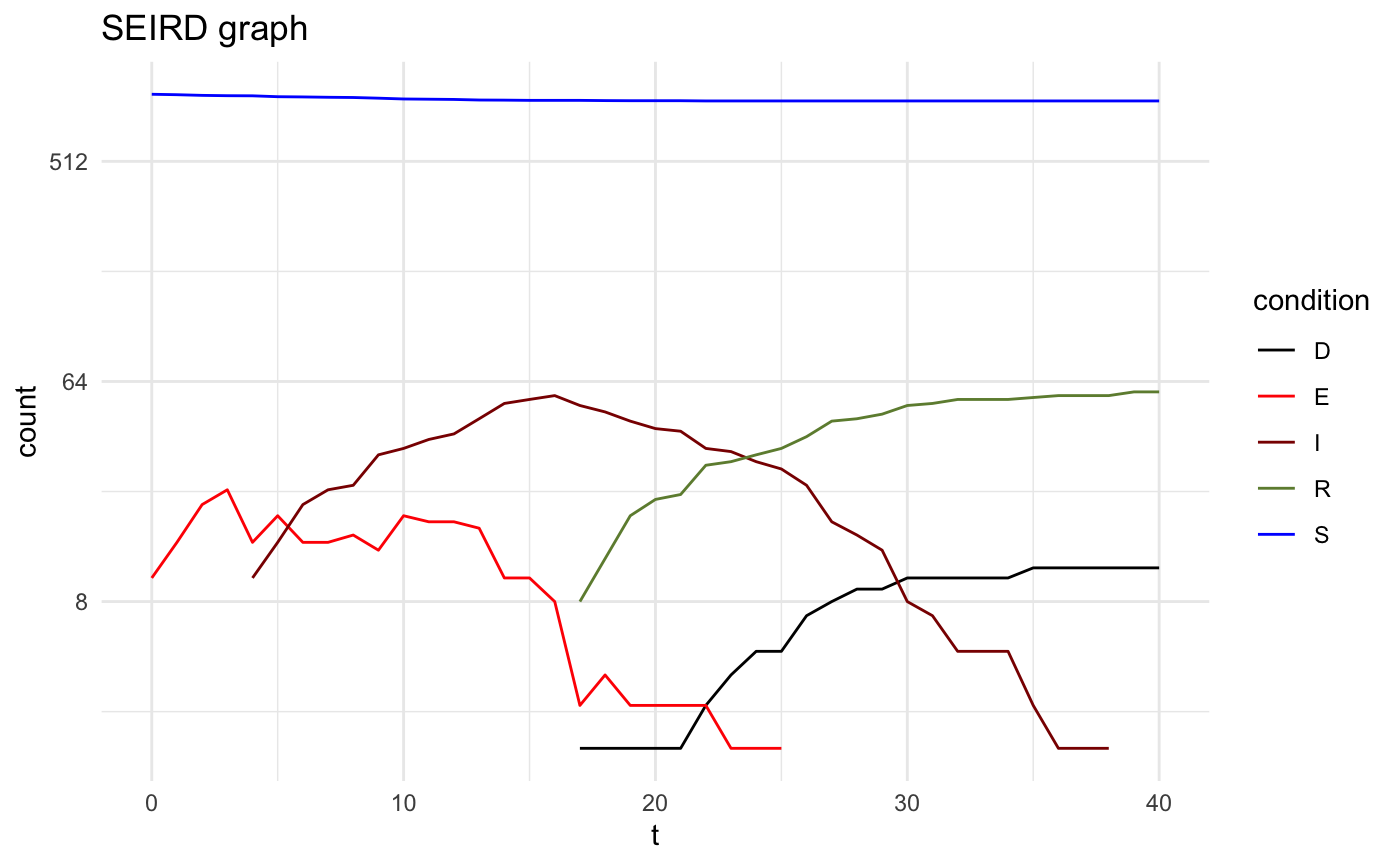
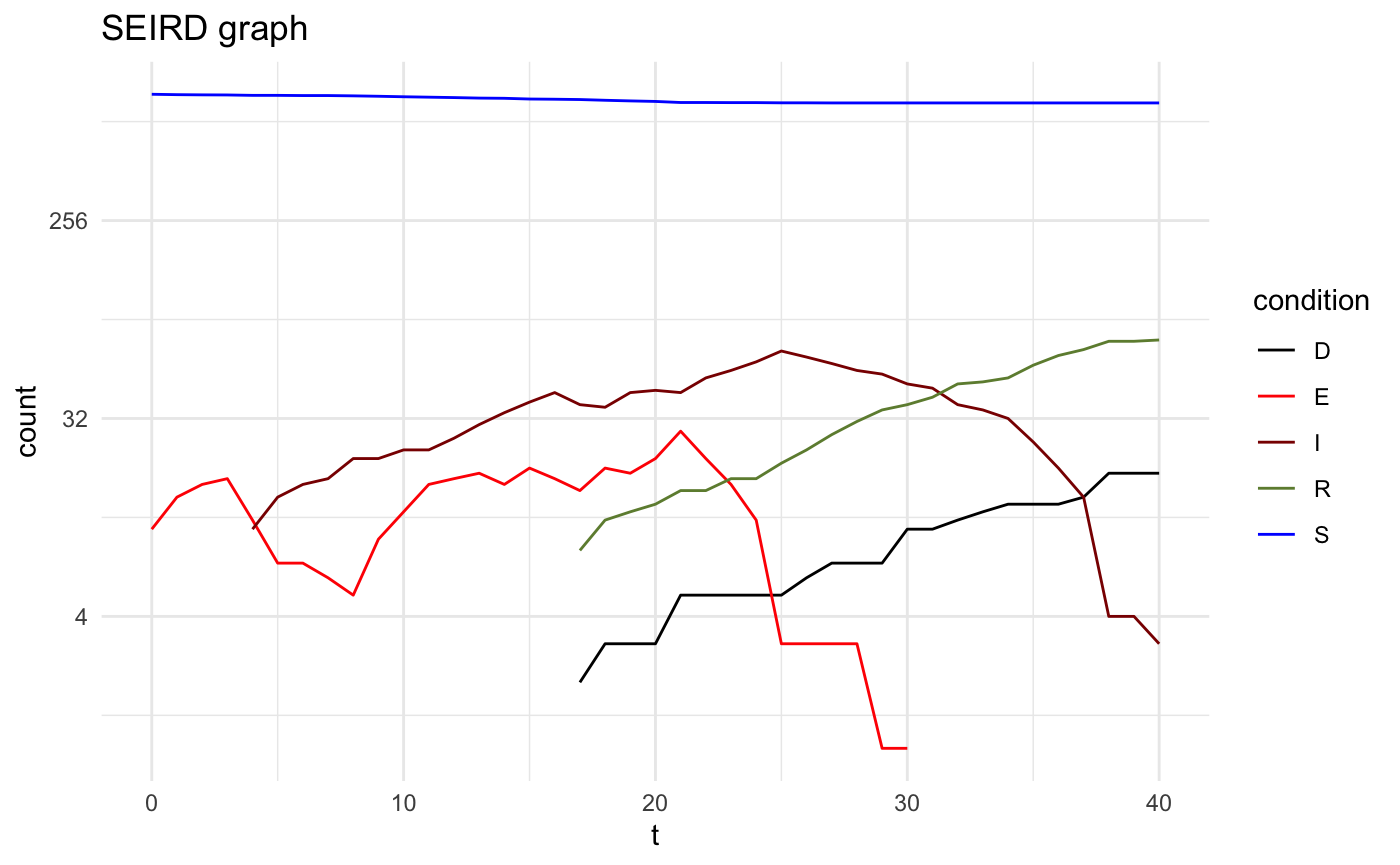
Built site for epidsampler: 0.0.0.9000@077be3d

diff --git a/articles/epidsampler.html b/articles/epidsampler.html
@@ -183,7 +183,8 @@
 <p>First of all, in order to simulate an artificial population describing the time evolution of an epidemics, we considered a popular model constituted by a system of six differential equations which, in each moment of time, describe six categories of individuals, namely: the susceptibles (S), those exposed to the virus (E), the infected with symptoms (I), those without symptoms (A) and those that are removed from population either because healed (R) or dead (D). This modelling framework is due to the seminal contribution of Hamer (1906), Kermack and McKendrick (1927) and Soper (1929) and it is often referred to as the “SIR model” from the initials of the categories considered in the first simplified formulation: Susceptibles, Infected and Removed. A comprehensive overview of this model is contained in Cliff et al. (1981). See also Vynnycky and White (2010).</p>
 <p>For the data random generation, we assumed that, if infected, a susceptible element of the population (S) will remain in the exposed state (E) for the time <strong>tE</strong>. After that period the subject can become either infected with symptoms (I) with probability <strong>ir</strong> or without (asymptomatic; symbol A) with probability <strong>1-ir</strong>. The asymptomatic will remain infected (and so still able to transmit the virus) for <strong>tA</strong> days. After this period all the asymptomatic will be considered healed and will pass to the category removed (R). In contrast, the infected people showing symptoms will be healed with probability <strong>1-cfr</strong> or die (D) with probability <strong>cfr</strong> (case death rate).</p>
 <p>The first simulation does not consider asyntomatic in the evolution of the epidemics.</p>
-<div class="sourceCode" id="cb3"><html><body><pre class="r"><span class="no">map</span> <span class="kw">&lt;-</span> <span class="no">map</span> <span class="kw">%&gt;%</span>
+<div class="sourceCode" id="cb3"><html><body><pre class="r"><span class="fu"><a href="https://rdrr.io/r/base/Random.html">set.seed</a></span>(<span class="fl">12345</span>)
+<span class="no">map</span> <span class="kw">&lt;-</span> <span class="no">map</span> <span class="kw">%&gt;%</span>
     <span class="fu"><a href="../reference/addsteps.html">addsteps</a></span>(<span class="kw">n</span><span class="kw">=</span><span class="fl">21</span>, <span class="kw">m</span><span class="kw">=</span><span class="fl">0.03</span>, <span class="kw">s</span><span class="kw">=</span><span class="fl">2</span>,
              <span class="kw">cn</span><span class="kw">=</span><span class="fl">4</span>, <span class="kw">cp</span><span class="kw">=</span><span class="fl">2</span>,
              <span class="kw">im</span><span class="kw">=</span><span class="fl">3</span>, <span class="kw">tE</span><span class="kw">=</span><span class="fl">5</span>, <span class="kw">tA</span><span class="kw">=</span><span class="fl">14</span>,
@@ -235,7 +236,8 @@
 <span class="fu"><a href="https://rdrr.io/r/base/plot.html">plot</a></span>(<span class="no">map</span>)</pre></body></html></div>
 <p><img src="epidsampler_files/figure-html/unnamed-chunk-3-1.png" width="700"></p>
 <p>With the parameter <strong>ir</strong> it is possibile to add the Aymptomatics.</p>
-<div class="sourceCode" id="cb4"><html><body><pre class="r"><span class="no">map</span> <span class="kw">&lt;-</span> <span class="fu"><a href="../reference/genmap.html">genmap</a></span>(<span class="kw">n</span><span class="kw">=</span><span class="fl">5</span>, <span class="kw">p</span><span class="kw">=</span><span class="fu"><a href="https://rdrr.io/r/base/c.html">c</a></span>(<span class="fl">10</span>,<span class="fl">50</span>)) <span class="kw">%&gt;%</span>
+<div class="sourceCode" id="cb4"><html><body><pre class="r"><span class="fu"><a href="https://rdrr.io/r/base/Random.html">set.seed</a></span>(<span class="fl">12345</span>)
+<span class="no">map</span> <span class="kw">&lt;-</span> <span class="fu"><a href="../reference/genmap.html">genmap</a></span>(<span class="kw">n</span><span class="kw">=</span><span class="fl">5</span>, <span class="kw">p</span><span class="kw">=</span><span class="fu"><a href="https://rdrr.io/r/base/c.html">c</a></span>(<span class="fl">10</span>,<span class="fl">50</span>)) <span class="kw">%&gt;%</span>
     <span class="fu"><a href="../reference/addsteps.html">addsteps</a></span>(<span class="kw">n</span><span class="kw">=</span><span class="fl">21</span>, <span class="kw">m</span><span class="kw">=</span><span class="fl">0.03</span>, <span class="kw">s</span><span class="kw">=</span><span class="fl">2</span>,
              <span class="kw">cn</span><span class="kw">=</span><span class="fl">4</span>, <span class="kw">cp</span><span class="kw">=</span><span class="fl">2</span>,
              <span class="kw">im</span><span class="kw">=</span><span class="fl">3</span>, <span class="kw">tE</span><span class="kw">=</span><span class="fl">5</span>, <span class="kw">tA</span><span class="kw">=</span><span class="fl">14</span>,
